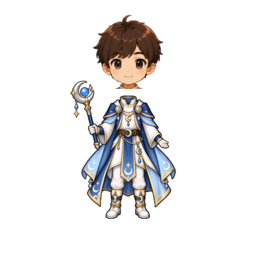
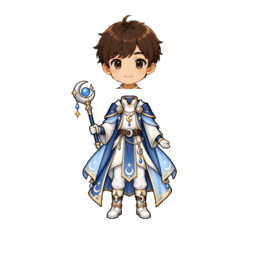
Standardize outfits on scientist production anchors

Changed region(s): [[0.25, 0.3125, 0.7188, 0.875]]

diff --git a/avatar-basic-pack-contract-selftest.js b/avatar-basic-pack-contract-selftest.js
@@ -47,8 +47,10 @@ assert.ok(renderer.includes('onePiece:true'),'production outfits must use the sh
 assert.ok(studentShop.includes("shop-preview-base shop-preview-head-only"),'student shop must use the shared head/neck mask');
 assert.ok(outfitBake.includes('FACE_KEEP_OUT = (104, 48, 153, 88)'),'outfit bake must preserve authored necklines from Y=89');
 assert.ok(previewBake.includes('HEAD_BOTTOM = 89'),'shop preview head mask must meet the authored neckline at Y=89');
-assert.ok(outfitBake.includes('SOURCE_X_ADJUST = {"silver-knight.png": -2}'),'silver knight source must align to the scientist X=128 visual baseline');
-assert.ok(outfitBake.includes('NECKLINE_RAISE = {"pirate-captain.png": 3}'),'pirate collar must match the scientist neck-length baseline');
+assert.ok(outfitBake.includes('TARGET_BODY_CENTROID = 128.0'),'mass-production outfits must share the scientist visual center');
+assert.ok(outfitBake.includes('def body_center_x'),'mass-production bake must measure the shared torso window');
+assert.ok(outfitBake.includes('step = round(TARGET_BODY_CENTROID - current_x)'),'mass-production bake must normalize X automatically');
+for(const itemSpecific of ['SOURCE_X_ADJUST','NECKLINE_RAISE'])assert.ok(!outfitBake.includes(itemSpecific),`item-specific correction must not remain: ${itemSpecific}`);
 assert.ok(!fs.existsSync(path.join(root,'server/avatar-shop-pack-v5.js')),'temporary v5 catalog must be removed');
 assert.ok(!catalog.includes('avatarShopPackV4')&&!catalog.includes('avatarShopPackV5'),'production catalog must not merge temporary packs');
 assert.ok(studentShop.includes("item.slot==='character'"),'student shop must retain future base-character product support');

diff --git a/scripts/bake-avatar-outfit-v2.py b/scripts/bake-avatar-outfit-v2.py
@@ -13,11 +13,10 @@ FILES = [
     "silver-knight.png",
     "star-mage.png",
 ]
-SOURCE_X_ADJUST = {"silver-knight.png": -2}
-NECKLINE_RAISE = {"pirate-captain.png": 3}
 
 MASTER = 256
 TARGET_BODY_X = 128
+TARGET_BODY_CENTROID = 128.0
 TARGET_FOOT_Y = 237
 # Production outfits own the body and neckline; the approved base owns only
 # the face/head opening.  Clearing through Y=96 erased eight rows of authored
@@ -75,14 +74,19 @@ def protect_face(img: Image.Image) -> Image.Image:
     return out
 
 
-def raise_authored_neckline(img: Image.Image, pixels: int) -> Image.Image:
-    """Extend only the existing central collar upward; keep feet/body anchors."""
-    if pixels <= 0:
-        return img
-    out = img.copy()
-    collar = img.crop((104, 89, 154, 106))
-    out.alpha_composite(collar, (104, 89 - pixels))
-    return out
+def body_center_x(img: Image.Image) -> float:
+    """Measure the torso only, excluding capes, weapons, shields and staffs."""
+    a = alpha(img)
+    weighted_x = 0
+    total_alpha = 0
+    for y in range(89, 237):
+        for x in range(90, 166):
+            value = a.getpixel((x, y))
+            weighted_x += x * value
+            total_alpha += value
+    if not total_alpha:
+        raise RuntimeError("could not locate torso pixels in standard body window")
+    return weighted_x / total_alpha
 
 
 def bake(path: Path, target_foot_y: int):
@@ -102,17 +106,28 @@ def bake(path: Path, target_foot_y: int):
     # The approved source art is already authored around body X=128.  Swords,
     # staffs, bows and capes are deliberately asymmetric, so alpha-derived X
     # centering would move the body differently for every outfit.
-    source_migration = foot_y != target_foot_y
-    dx = SOURCE_X_ADJUST.get(path.name, 0) if source_migration else 0
     dy = target_foot_y - foot_y
+    vertical = translate(img, 0, dy)
+    vertical = protect_face(vertical)
+    measured_x = body_center_x(vertical)
+    baked = vertical
+    dx = 0
+    for _ in range(4):
+        current_x = body_center_x(baked)
+        if abs(current_x - TARGET_BODY_CENTROID) <= 0.75:
+            break
+        step = round(TARGET_BODY_CENTROID - current_x)
+        if not step:
+            step = 1 if current_x < TARGET_BODY_CENTROID else -1
+        baked = protect_face(translate(baked, step, 0))
+        dx += step
     if abs(dx) > 36 or abs(dy) > 48:
         raise RuntimeError(f"{path.name}: source outside migration tolerance dx={dx}, dy={dy}")
-    baked = translate(img, dx, dy)
-    baked = protect_face(baked)
-    if source_migration:
-        baked = raise_authored_neckline(baked, NECKLINE_RAISE.get(path.name, 0))
+    final_x = body_center_x(baked)
+    if abs(final_x - TARGET_BODY_CENTROID) > 0.75:
+        raise RuntimeError(f"{path.name}: body center failed standard template: {final_x:.2f}")
     baked.save(path, "PNG", optimize=True)
-    print(f"{path.name}: bodyX 128->128, footY {foot_y}->{target_foot_y}, dx={dx}, dy={dy}")
+    print(f"{path.name}: bodyCenter {measured_x:.2f}->{final_x:.2f}, footY {foot_y}->{target_foot_y}, dx={dx}, dy={dy}")
 
 
 def main():
